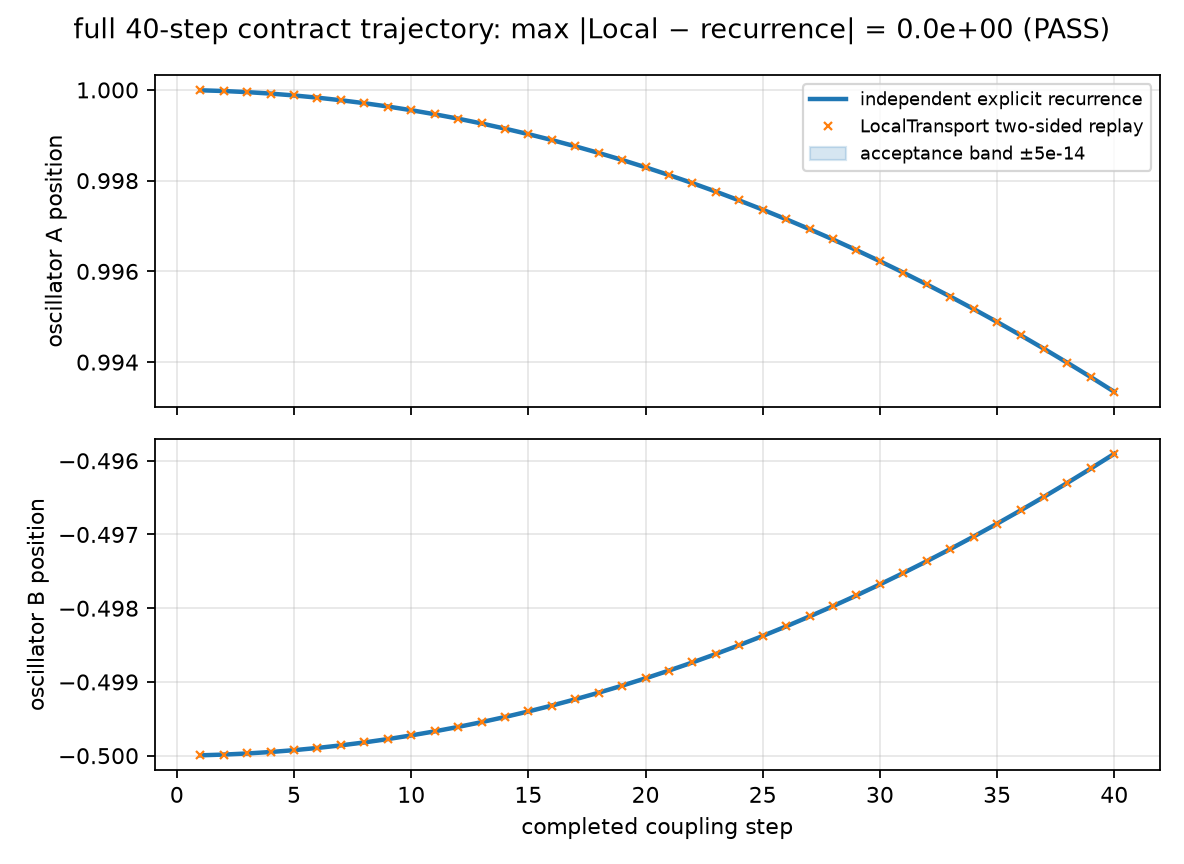
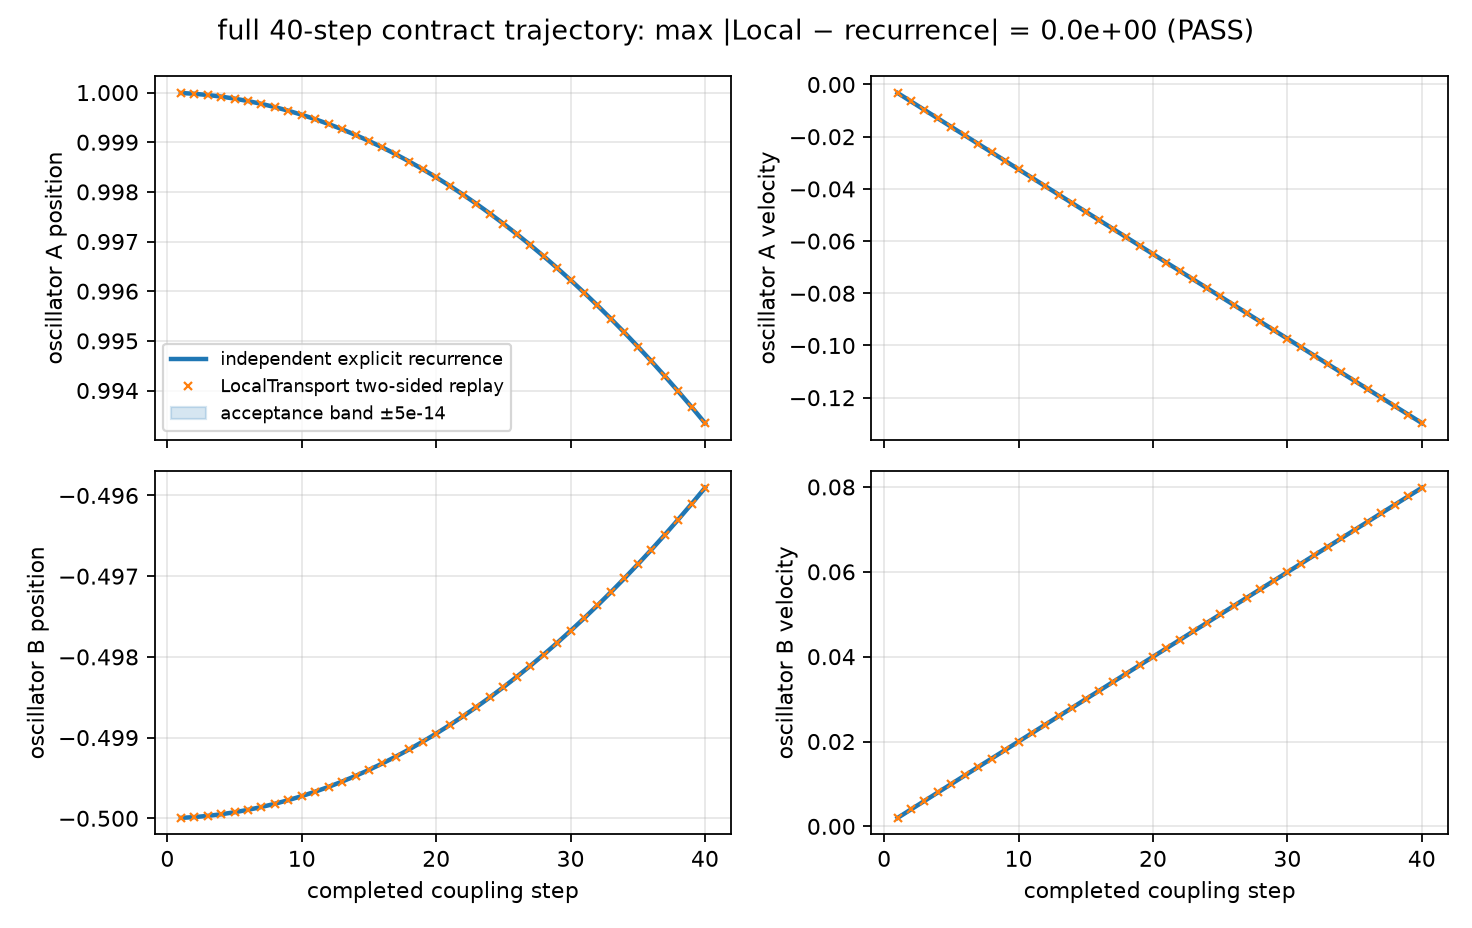
examples: graph complete MPMD oscillator state

diff --git a/examples/oscillator_mpmd/sweep.py b/examples/oscillator_mpmd/sweep.py
@@ -69,8 +69,16 @@ error = max_error(measured, reference)
 assert error <= TOL, f"LocalTransport trajectory error {error:.3e} exceeds {TOL:.1e}"
 
 steps = range(1, len(reference) + 1)
-fig, axes = plt.subplots(2, 1, figsize=(7.4, 5.4), sharex=True)
-for axis, index, name in zip(axes, (0, 2), ("oscillator A position", "oscillator B position")):
+# The acceptance check is over the complete state vector, not position alone.
+# Keep one panel per checked component so a velocity-only regression is visible
+# in the committed artifact as well as in the scalar maximum-error gate.
+fig, axes = plt.subplots(2, 2, figsize=(9.2, 5.8), sharex=True)
+for axis, index, name in zip(
+    axes.flat,
+    (0, 1, 2, 3),
+    ("oscillator A position", "oscillator A velocity",
+     "oscillator B position", "oscillator B velocity"),
+):
     ref = [row[index] for row in reference]
     got = [row[index] for row in measured]
     axis.plot(steps, ref, "-", lw=2, label="independent explicit recurrence")
@@ -79,8 +87,9 @@ for axis, index, name in zip(axes, (0, 2), ("oscillator A position", "oscillator
                       color="C0", alpha=.18, label=f"acceptance band ±{TOL:.0e}")
     axis.set_ylabel(name)
     axis.grid(alpha=.3)
-axes[0].legend(loc="best", fontsize=8)
-axes[-1].set_xlabel("completed coupling step")
+axes[0, 0].legend(loc="best", fontsize=8)
+for axis in axes[-1]:
+    axis.set_xlabel("completed coupling step")
 fig.suptitle(f"full 40-step contract trajectory: max |Local − recurrence| = {error:.1e} (PASS)")
 fig.tight_layout()
 plot = HERE / "plots" / "local_contract_comparison.png"

diff --git a/examples/VALIDATION.md b/examples/VALIDATION.md
@@ -14,11 +14,12 @@ render in Gitea:
 
 - [`oscillator_mpmd`](oscillator_mpmd/README.md) embeds
   [`plots/local_contract_comparison.png`](oscillator_mpmd/plots/local_contract_comparison.png),
-  comparing the complete in-process `LocalTransport` trajectory of the
-  two-binary exchange contract with an independently implemented explicit
-  recurrence.  Its CI MPMD launch records both binary traces and compares the
-  full MPI trajectory with that same recurrence; bit fingerprints have a
-  documented heterogeneous-floating-point warning policy.
+  comparing all four components of the complete in-process `LocalTransport`
+  state trajectory of the two-binary exchange contract with an independently
+  implemented explicit recurrence.  Its CI MPMD launch records both binary
+  traces and compares the full MPI state vector with that same recurrence;
+  bit fingerprints have a documented heterogeneous-floating-point warning
+  policy.
 
 - [`heat_diffusion_1d`](heat_diffusion_1d/README.md) embeds
   [`plots/heat_diffusion_validation.png`](heat_diffusion_1d/plots/heat_diffusion_validation.png).

diff --git a/examples/oscillator_mpmd/README.md b/examples/oscillator_mpmd/README.md
@@ -65,9 +65,10 @@ fingerprint mismatch is a documented warning—not a false failure—when every
 trajectory value satisfies the numerical criterion, because heterogeneous MPI
 ranks or builds may take different floating-point instruction paths.
 
-![LocalTransport full trajectory versus independent recurrence](plots/local_contract_comparison.png)
+![LocalTransport full state trajectory versus independent recurrence](plots/local_contract_comparison.png)
 
-The full 40-step LocalTransport trajectory overlaps the separately implemented
-explicit recurrence within the visible ±`5e-14` criterion (PASS).  The MPI CI
-launch applies that same recurrence comparison to its recorded two-binary
-trajectory.
+The four panels show the full 40-step LocalTransport state vector—A position,
+A velocity, B position, and B velocity—against the separately implemented
+explicit recurrence.  Every checked observable overlaps the visible
+±`5e-14` criterion (PASS).  The MPI CI launch applies that same full-vector
+recurrence comparison to its recorded two-binary trajectory.
